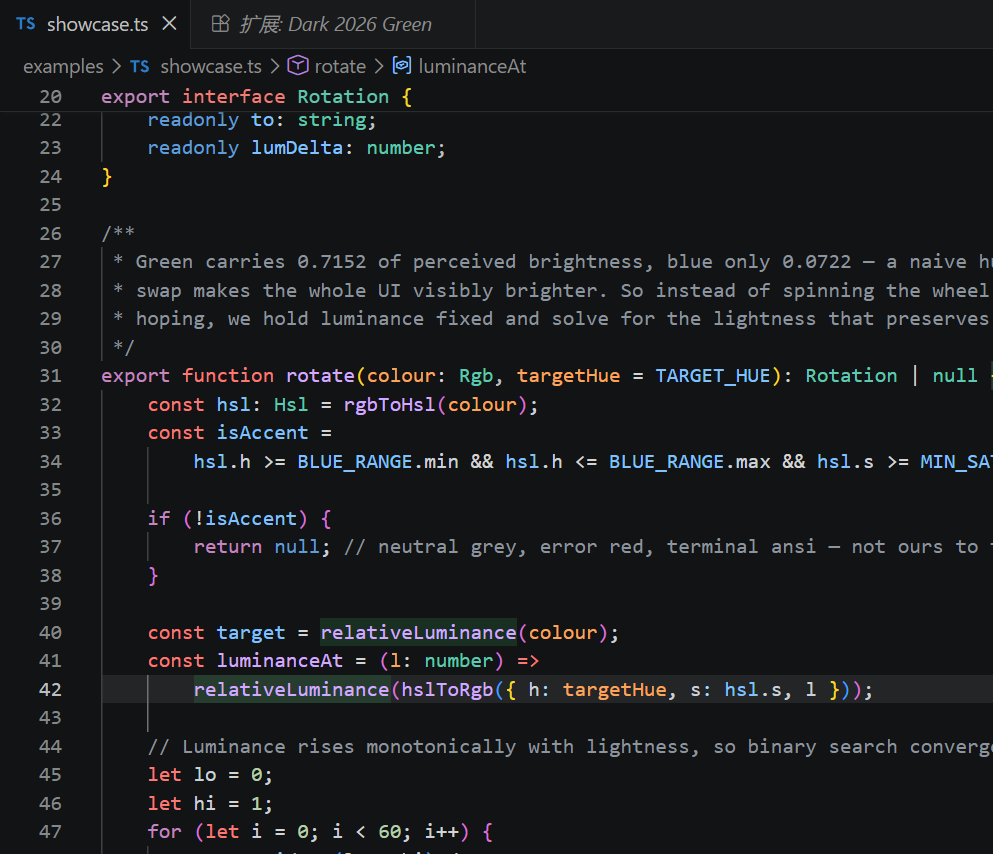
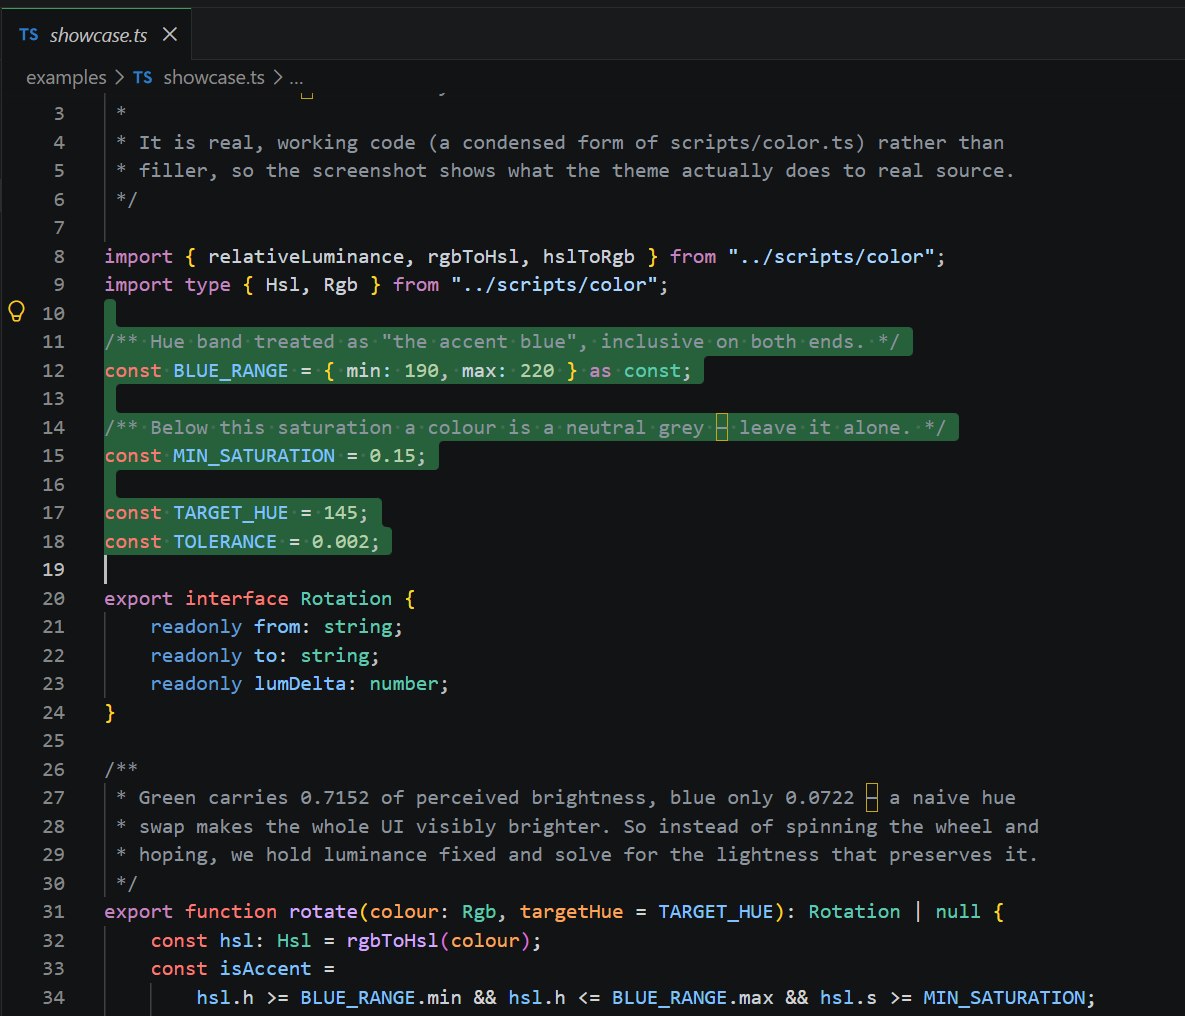
Use a real selection for the README screenshot
Replaces the previous capture. The old one leaned on
editor.wordHighlightBackground (#216D4150) because driving VS Code's editor
to select text wasn't possible from the automation side; this one shows
editor.selectionBackground (#216D41DD) over ~73k pixels, which is both the
theme's most prominent green and far more legible at a glance.

diff --git a/README.md b/README.md
@@ -10,11 +10,11 @@ Same light, different hue. That is the whole idea.
 
 ## Screenshot
 
-![Dark 2026 Green — the rotate() function from scripts/color.ts, showing untouched Dark 2026 syntax highlighting alongside the green occurrence highlight](https://raw.githubusercontent.com/huasun47/dark-2026-green/main/images/screenshot.png)
+![Dark 2026 Green — a selection in the theme's own colour code, showing the green selection highlight against Dark 2026's untouched syntax colours](https://raw.githubusercontent.com/huasun47/dark-2026-green/main/images/screenshot.png)
 
-The green blocks behind `relativeLuminance` are `editor.wordHighlightBackground` — one of
-the 61 rotated UI colours. Everything with syntax colour on it (`const` red, strings blue,
-types teal) is Dark 2026 untouched. That contrast *is* the theme.
+The green behind the selected lines is `editor.selectionBackground` — one of the 61 rotated
+UI colours. Everything carrying syntax colour (`const` red, strings blue, types teal) is
+Dark 2026, untouched. That contrast is the whole point.
 
 ---
 